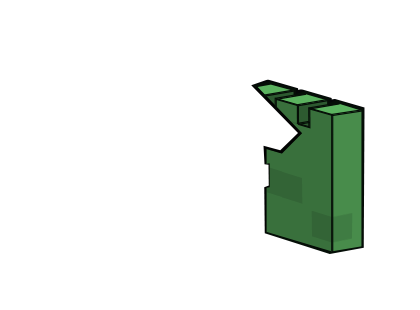
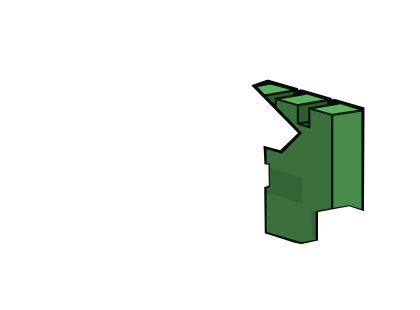
add a draw slab tool to the building editor

Changed region(s): [[0.7119, 0.6387, 0.8667, 0.8419]]

diff --git a/source/stonehearth_data/mods/stonehearth/ui/game/modes/build_mode/building_designer_2/building_designer_2.html b/source/stonehearth_data/mods/stonehearth/ui/game/modes/build_mode/building_designer_2/building_designer_2.html
@@ -32,7 +32,8 @@
 
             <!-- the build palette image map. -->
             <map name="buildPaletteMap" id="buildPaletteMap">
-               <area shape="rect" coords="418,308,420,310" alt="Image Map" style="outline:none;" title="Image Map" />
+               <area shape="rect" coords="418,308,420,310" alt="Image Map" style="outline:none;" />
+               <area palette="buildPalette" tool="drawSlabTool" shape="poly" coords="317,211,349,204,373,212,374,274,313,285,287,275,288,243,317,240" style="outline:none;" target="_self"     />
                <area palette="buildPalette" tool="placeFurnitureTool" shape="poly" coords="86,214,88,248,104,253,104,275,74,281,45,272,45,214,74,207" style="outline:none;" target="_self"     />
                <area palette="buildPalette" tool="placeDecorationTool" shape="poly" coords="232,116,230,123,277,134,275,142,262,139,263,181,247,167,235,179,235,132,228,128,218,135,211,132,211,115,225,112" style="outline:none;" target="_self"     />
 

diff --git a/source/stonehearth_data/mods/stonehearth/ui/game/modes/build_mode/building_designer_2/building_designer_2.js b/source/stonehearth_data/mods/stonehearth/ui/game/modes/build_mode/building_designer_2/building_designer_2.js
@@ -36,6 +36,7 @@ App.StonehearthBuildingDesignerTools = App.StonehearthBuildingDesignerBaseTools.
       this.newTool(new PlaceFixtureTool({ category: 'windows', toolId: 'drawWindowTool', materialClass: 'windowMaterials'}));
       this.newTool(new DrawFloorTool({ toolId: 'drawFloorTool', sinkFloor:true }));
       this.newTool(new DrawFloorTool({ toolId: 'growFloorTool', sinkFloor:false }));
+      this.newTool(new DrawFloorTool({ toolId: 'drawSlabTool', sinkFloor:false }));
       this.newTool(new DrawWallTool);
       this.newTool(new GrowWallsTool);
       this.newTool(new GrowRoofTool);
